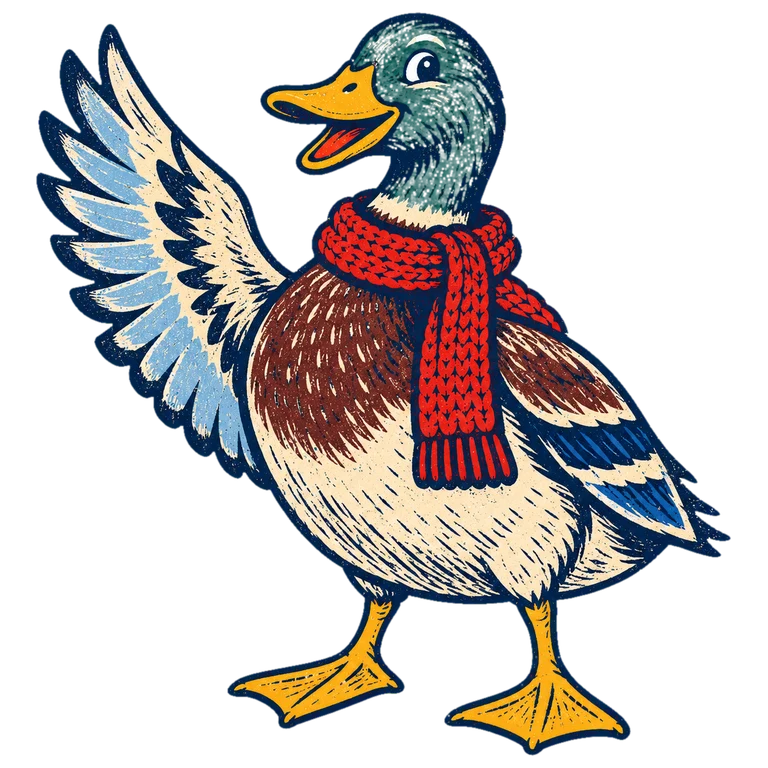
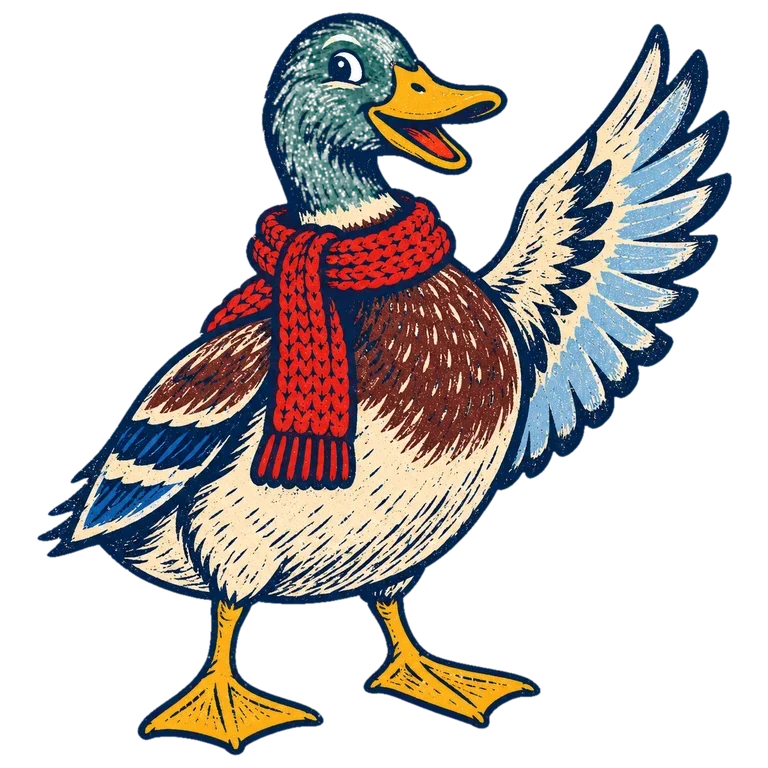
Sweep & Slide: the last captains (the duck turned to face Dora and Enzo), bot numbers in the docs, no blank frame on resize

diff --git a/app/curl/curl.css b/app/curl/curl.css
@@ -36,7 +36,8 @@
 .ss-lede{font-size:15px;font-weight:600}
 .ss-menu-buttons{display:flex;flex-direction:column;gap:9px;position:relative;z-index:1}
 .ss-menu-foot{display:flex;align-items:center;justify-content:space-between;gap:8px;flex-wrap:wrap;position:relative;z-index:1}
-.ss-ending{justify-content:flex-start}
+.ss-ending{justify-content:flex-start;padding-left:2.5vw}
+.ss-ending-card{width:min(370px,31vw)}
 .ss-ending-art img,.ss-ending-art canvas{object-position:60% 50%}
 .ss-ending-card h2{font-size:clamp(30px,3.6vw,46px);font-weight:900;text-transform:uppercase;text-shadow:2px 2px 0 var(--mustard)}
 
@@ -128,6 +129,7 @@
 .ss-shell[data-orient="tall"] .ss-controls{left:8px;right:8px;transform:none;max-width:none;grid-template-columns:auto 1fr auto;bottom:8px}
 .ss-shell[data-orient="tall"] .ss-bubble{left:8px;right:8px;transform:none;max-width:none;top:58px;bottom:auto}
 .ss-shell[data-orient="tall"] .ss-stones{display:none}
+.ss-shell[data-orient="tall"] .ss-toast{top:42%}
 .ss-shell[data-orient="tall"] .ss-board{gap:6px}
 .ss-shell[data-orient="tall"] .ss-row b{max-width:64px;font-size:12px}
 .ss-shell[data-orient="tall"] .ss-ends{display:none}

diff --git a/lib/curl-scene.ts b/lib/curl-scene.ts
@@ -141,6 +141,8 @@ export class CurlScene {
       L.dora = { x: W * 0.15, y: H - 4, h: ch * 0.92 }; L.enzo = { x: W * 0.15 + ch * 0.6, y: H - 2, h: ch };
       L.cap = { x: W - ch * 0.42, y: H - 4, h: ch * 0.95 };
     }
+    // redraw at once: resizing clears the canvas, and a blank frame would flash
+    try { this.draw(); } catch { /* drawn next frame */ }
   }
   /** The camera's target for the current view. */
   private target() {
@@ -180,6 +182,7 @@ export class CurlScene {
   cheer() { this.cheerT = 1.6; }
 
   frame(dt: number) {
+    if (this.cv.clientWidth !== this.W || this.cv.clientHeight !== this.H) this.resize();
     this.t += dt;
     const tg = this.target(), k = 1 - Math.exp(-dt * (this.view === 'follow' ? 4 : 2.6));
     this.cam.cx += (tg.cx - this.cam.cx) * k; this.cam.s += (tg.s - this.cam.s) * k;

diff --git a/docs/curl.md b/docs/curl.md
@@ -88,9 +88,18 @@ Beating a team opens the next. Beating the stoats wins the Pebble Cup and opens 
 
 `npm run bot:curl` (60 matches per team with `CURL_N=60`): an expert bot playing as Dora and Enzo (their caller, their release error and a sharp sweep judge) won against each team in turn:
 
-BOT_TABLE
+| # | Team | Expert won | Average score | Naive won |
+| --- | --- | --- | --- | --- |
+| 1 | Hedgehog Twins | 60 / 60 | 4.7 – 1.1 | 25 / 30 |
+| 2 | Duck Pond Paddlers | 56 / 60 | 3.6 – 1.4 | 14 / 30 |
+| 3 | Badger Brothers | 54 / 60 | 3.1 – 1.5 | 11 / 30 |
+| 4 | Squirrel Scramblers | 46 / 60 | 2.9 – 1.8 | 6 / 30 |
+| 5 | Beaver Builders | 49 / 60 | 3.2 – 2.2 | 0 / 30 |
+| 6 | Otter Swimmers | 40 / 60 | 2.6 – 2.3 | 1 / 30 |
+| 7 | Owl Tacticians | 37 / 60 | 3.0 – 2.5 | 2 / 30 |
+| 8 | Stoat Champions (6 ends, their hammer) | 17 / 60 | 3.6 – 4.2 | 0 / 30 |
 
-A naive bot that throws the same draw to the button every time without sweeping won BOT_NAIVE. `tests/curl-bot.mjs` checks that the expert beats the hedgehogs at least 75 % of the time, the champions between 10 % and 70 %, that the second half of the ladder is harder than the first, and that the naive bot loses most matches.
+A naive bot that throws the same draw to the button every time without sweeping won 59 of 240 (25 %), almost all of them against the first three teams; after the squirrels it hardly wins at all. `tests/curl-bot.mjs` checks that the expert beats the hedgehogs at least 75 % of the time, the champions between 10 % and 70 %, that the second half of the ladder is harder than the first, and that the naive bot loses most matches.
 
 ## The Practice Pond
 
